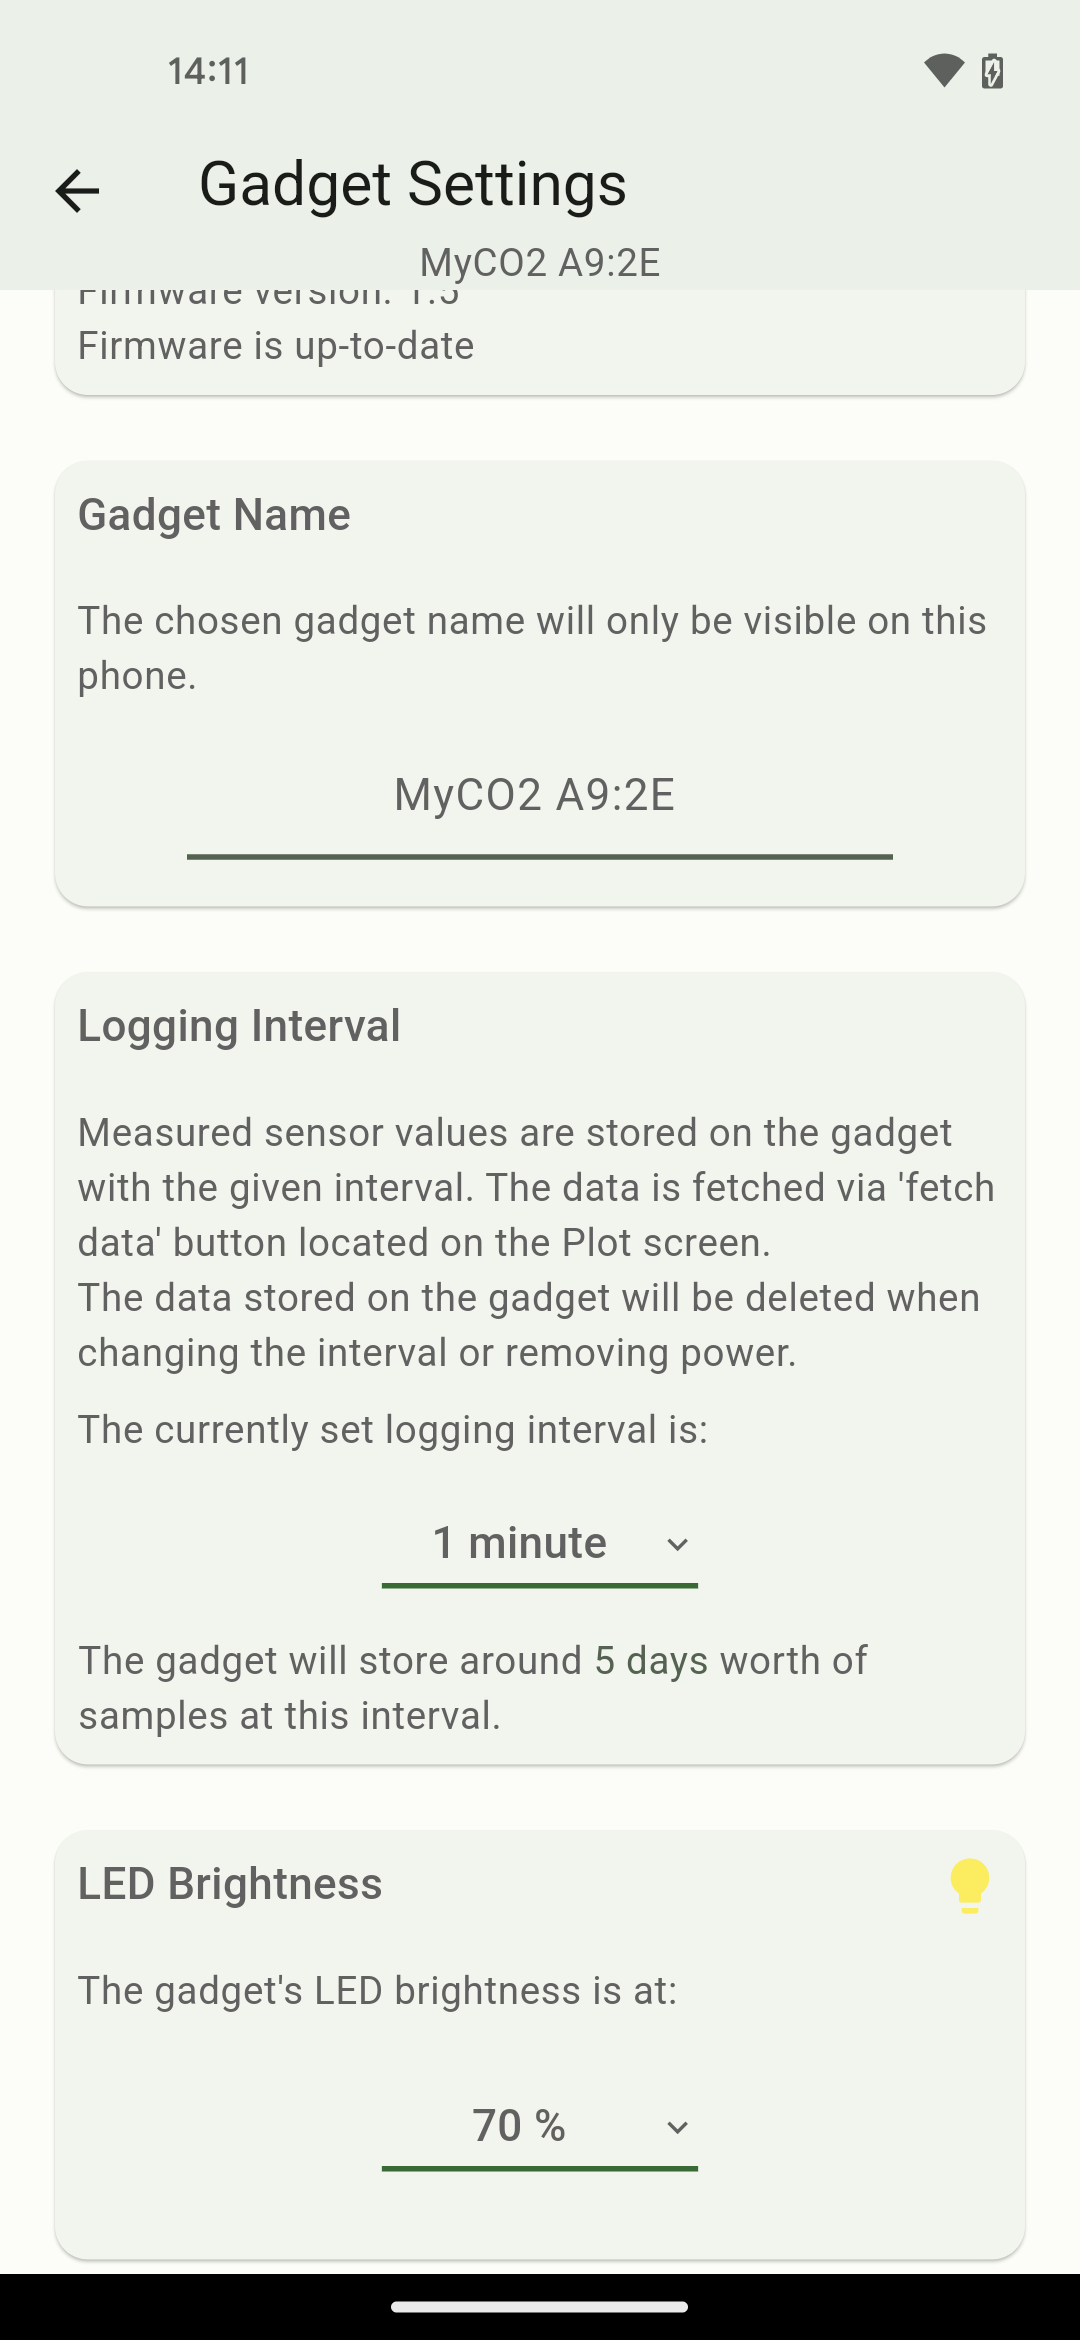
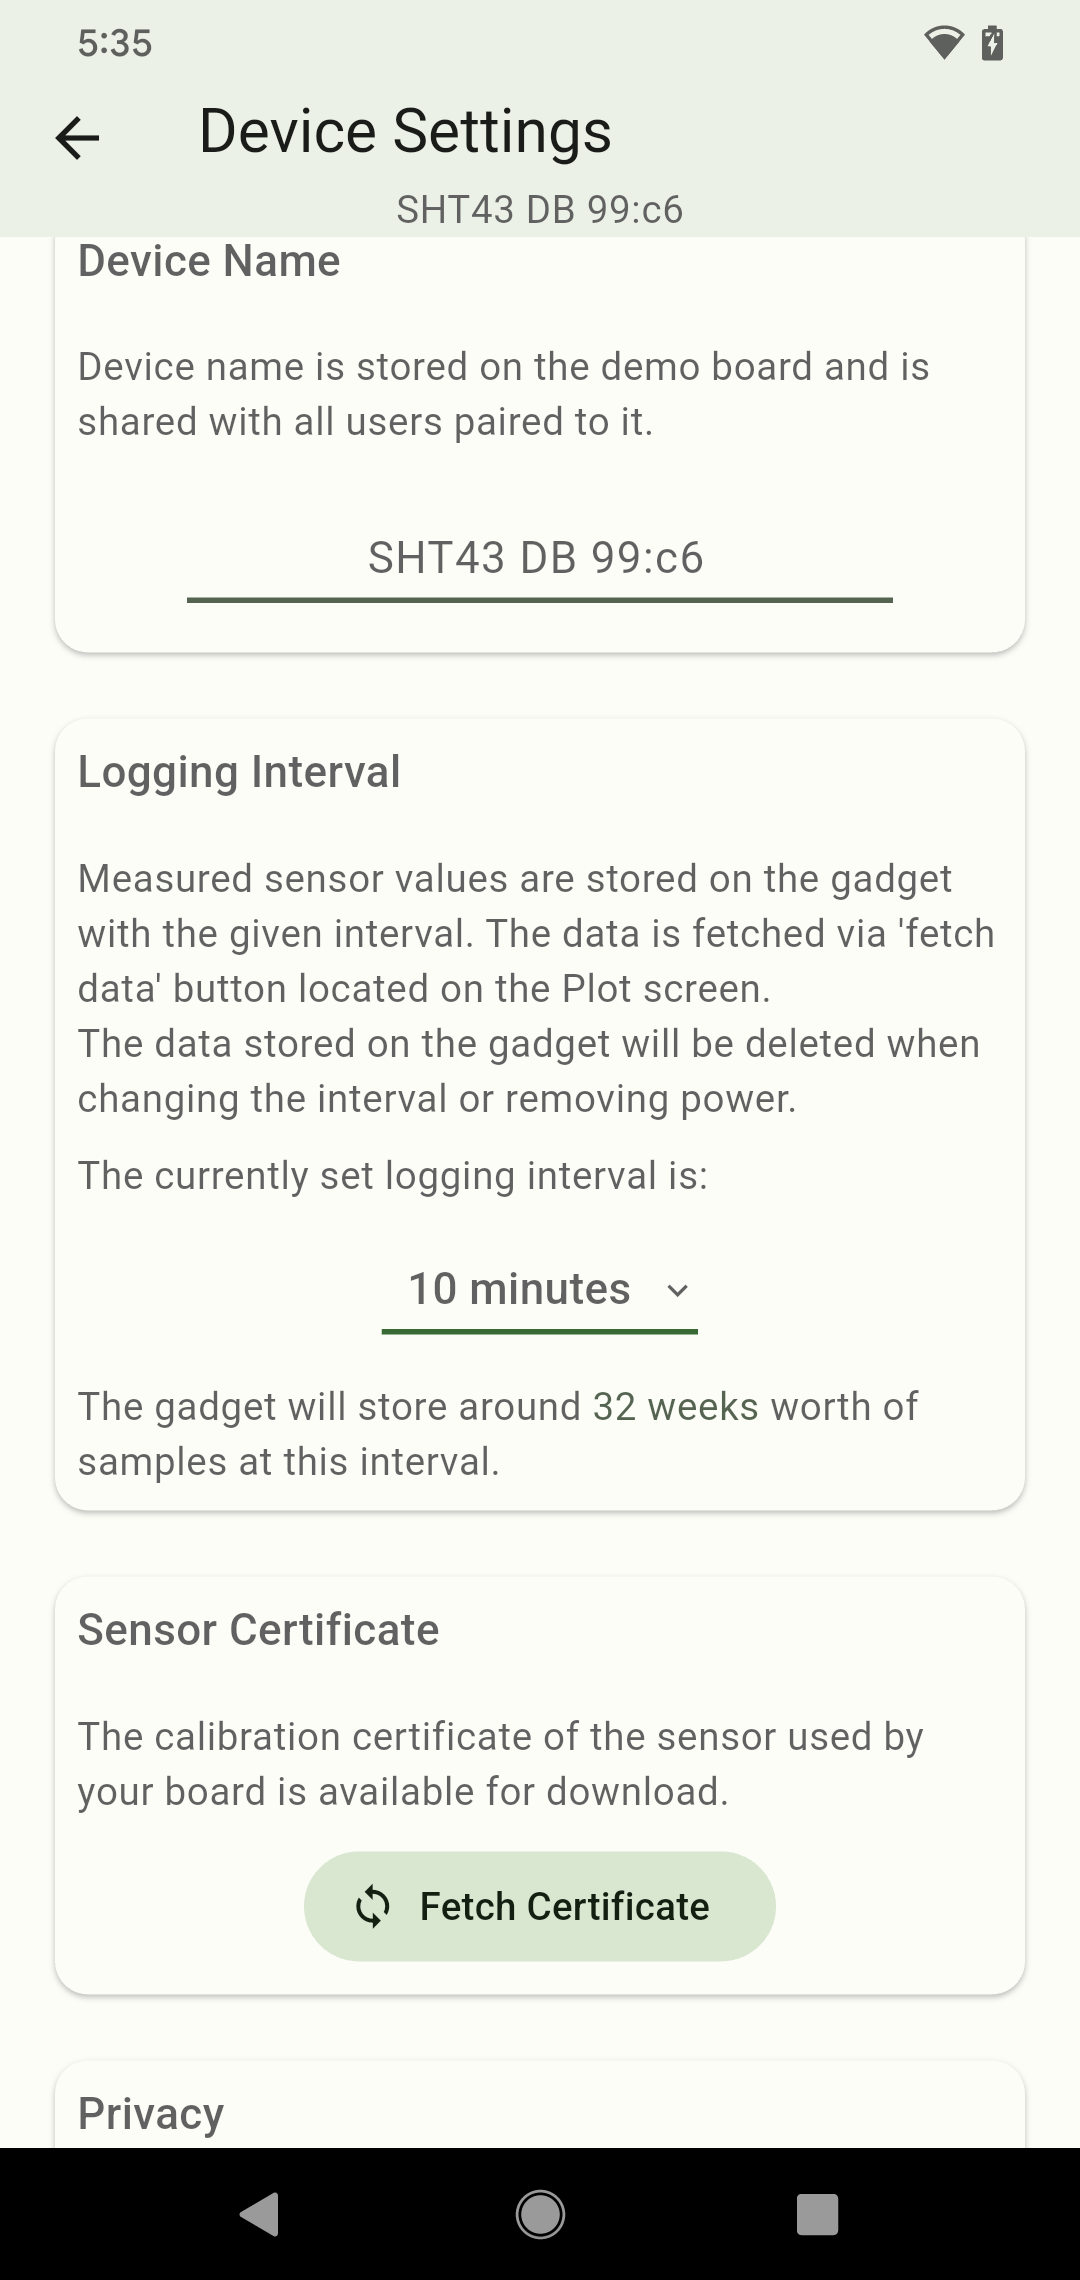
change from gadget to device settings
and add the new settings for SHT43 Demo Board

diff --git a/docs/README.md b/docs/README.md
@@ -113,19 +113,23 @@ To favorite a gadget, simply tap the heart icon on the bottom right of each gadg
 
 The favorite settings are persistent even if your gadget is not in reach. The next time you are close to your gadget it will show up on top!
 
-### Gadget Settings
+### Device Settings
 
-You can configure certain aspects of your gadget! By tapping the cog wheel icon next to the favorites icon on the bottom right you go into the settings view. An example is shown below for the SCD4x CO2 Gadget:
+You can configure certain aspects of your device! By tapping the cog wheel icon next to the favorites icon on the bottom right you go into the settings view. An example is shown below for the SHT43 Demo Board:
 
 ![Settings View](images/Settings.PNG ":size=20%") 
 
 Through the settings view you can:
-- Update the firmware of your gadget. The app will automatically detect a firmware which needs to be updated and will allow you to start the update.
-- Change the name of your gadget. Please note, that this will change the gadget name only for your own device and not overall of the gadget
-- See the battery percentage, the available logging memory and adjust the logging interval 
-- (CO2 Gadget Only) Adjust the LED Brightness
-  - Turn on/off the LED by tapping on the light bulb on the bottom right
-- (CO2 Gadget Only) Perform a Forced Recalibration
+- Update the firmware of your device. The app will automatically detect a firmware which needs to be updated and will allow you to start the update.
+- Change the name of your device. 
+  - (SHT43 Demo Board) The name is stored on the board, thus the name is shared with other users paired to this demo board.
+  - (CO2 Gadget, SHT4x Smart Gadget, SHT31 Smart Gadget) The name is saved locally on your phone and thus not shared with other users of those gadgets.
+- See the battery percentage, the available logging memory and adjust the logging interval
+- (SHT43 Demo Board Only) Download the calibration certificate for the SHT43 sensor.
+- (SHT43 Demo Board Only) Switch privacy mode. In Privacy Mode, no live data updates are sent.
+- (CO2 Gadget Only) Adjust the LED Brightness.
+  - Turn on/off the LED by tapping on the light bulb on the bottom right.
+- (CO2 Gadget Only) Perform a Forced Recalibration.
 
 
 ## Plots
@@ -173,7 +177,7 @@ Depending on the X-Axis range selected the original data is down sampled. This a
 
 ## Fetching stored data from gadget
 
-While the app is active, live data is captured and stored for all gadgets in range. However, most of the gadgets have internal memory which allows them to log the data and send it to MyAmbience upon request. The logging interval on the gadget device can be changed in the [Gadget Settings](#gadget-settings).
+While the app is active, live data is captured and stored for all gadgets in range. However, most of the gadgets have internal memory which allows them to log the data and send it to MyAmbience upon request. The logging interval on the gadget device can be changed in the [Device Settings](#gadget-settings).
 
 There are two ways to initiate a data download:
 
@@ -255,7 +259,7 @@ In the app settings you can adjust the general settings of MyAmbience:
 Depending on the gadget, the live data updates every few seconds. As usually there is no such high data resolution needed for the history data, this options allows you to down sample the live values before perstisting. Activating the down-sampling reduces storage consumption and also helps to keep the app performant. The persisted data is used for statistic in [Single Gadget Focus view](#single-gadget-focus-view), plot [Plots](#plots) and data export [Data Export](#export-and-share-data). Note that the plot shows the full resolution for the live data that was traced in the current app session.
 
 The down sampling resolution is set with following logic:
-- If a gadget supports data logging, the data logging interval set on the gadget is used as down sampling interval. It is limited to a maximum of 10 minutes. See in the [Gadget Settings](#gadget-settings) to check if your gadget supports data logging. The currently set logging interval is fetched from the gadgets upon discovery and cached in the app.
+- If a gadget supports data logging, the data logging interval set on the gadget is used as down sampling interval. It is limited to a maximum of 10 minutes. See in the [Device Settings](#gadget-settings) to check if your gadget supports data logging. The currently set logging interval is fetched from the gadgets upon discovery and cached in the app.
 - Default down sampling interval is 1 minute. This is applied if the gadget does not support data logging.
 
 ### Manage Gadgets
